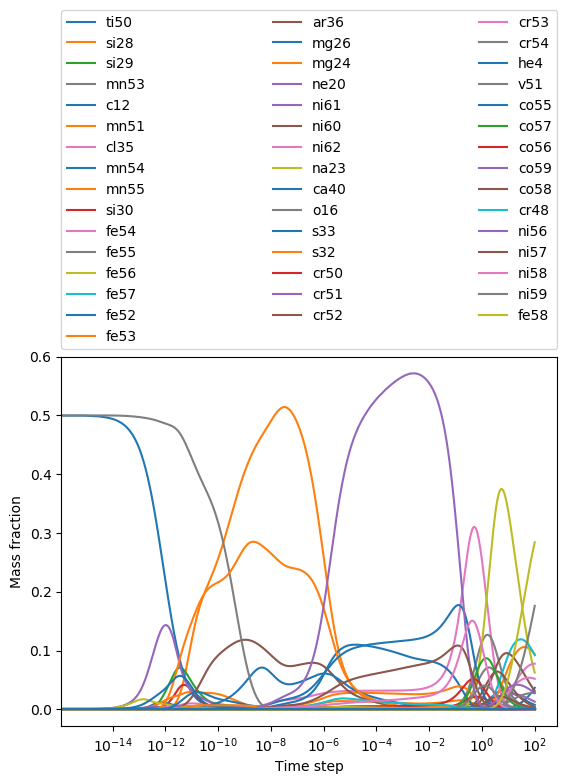
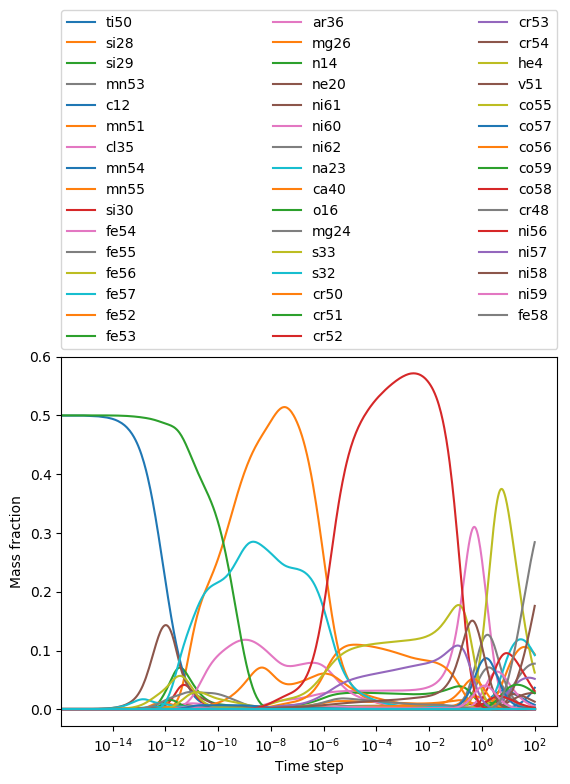
bug fix in plot for xnet stand

diff --git a/my_code/generate_final_yields.py b/my_code/generate_final_yields.py
@@ -13,7 +13,8 @@ from read_ts_file import *
 
 def plot_abund(abundance_dict_time , sym_list,file_name,sim_time):
   #pdb.set_trace()
-  plot_name = file_name.split('.')[0]+"_mass_fraction.png"
+  plot_dir = './plots/'
+  plot_name = plot_dir + file_name.split('.')[0]+"_mass_fraction.png"
   sym_abund = {}
   thres_abund = 1e-2
   all_legends = []
@@ -46,14 +47,16 @@ def plot_abund(abundance_dict_time , sym_list,file_name,sim_time):
   plt.clf()
 
 def save_final_yields(abund_dic_time,sym_list,outfilename):
-  fileobj = open(outfilename,"w")
+  fileobj = open('./data/'+outfilename,"w")
   for sym in sym_list:
     fileobj.write(sym + " " + str(abund_dic_time[sym][-1])+"\n")
   fileobj.close()
 
 def main():
-  file_dir = '../NSE_Tests/alpha_test/tss/'
-  file_name = 'ts_tnsn_alpha_1'
+  #file_dir = '../NSE_Tests/alpha_test/tss/'
+  #file_name = 'ts_tnsn_alpha_1'
+  file_dir = '../NSE_Tests/SN150_Test/tss/'
+  file_name = 'ts_tnsn_SN150_1'
   filepath = file_dir + file_name
   ele_filename = 'Z_file.csv'
   #x = loadmat(filepath)
@@ -70,8 +73,8 @@ def main():
 
   file_obj = open(ele_filename,"r")
   Z_sym_dic = {}
-  Z_sym_dic[0] = 'n'
-  Z_sym_dic[1] = 'p'
+  #Z_sym_dic[0] = 'n'
+  #Z_sym_dic[1] = 'p'
   for line in file_obj:
     Z = int(line.split(',')[0])
     sym = line.split(',')[1].split('\n')[0]
@@ -80,14 +83,18 @@ def main():
 
   abund_dic_time = {}
   sym_list = []
-  for indx, Z in enumerate(zz):
-    Z = int(Z)
-    A = int(aa[indx])
-    sym = Z_sym_dic[Z].lower()
-    if sym == 'p' or sym == 'n':
-      nuclide = sym
+  pdb.set_trace()
+  for indx, A in enumerate(aa):
+    Z = int(zz[indx])
+    A = int(A)
+    sym = Z_sym_dic[Z]
+    if A == 2 and Z == 1:
+      nuclide = 'd'
+    elif sym == 'p' or sym == 'n':
+      pdb.set_trace()
+      nuclide = sym.lower()
     else:
-      nuclide = sym + str(A)
+      nuclide = sym.lower() + str(A)
     
     ab_ndarr = mass_frac_time = xmf[:,indx]
     abund_dic_time[nuclide] = ab_ndarr
